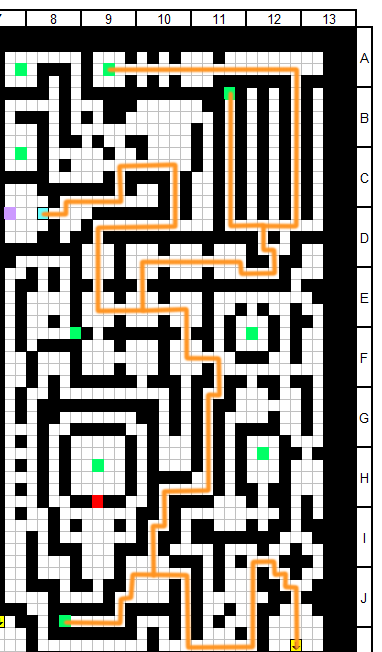
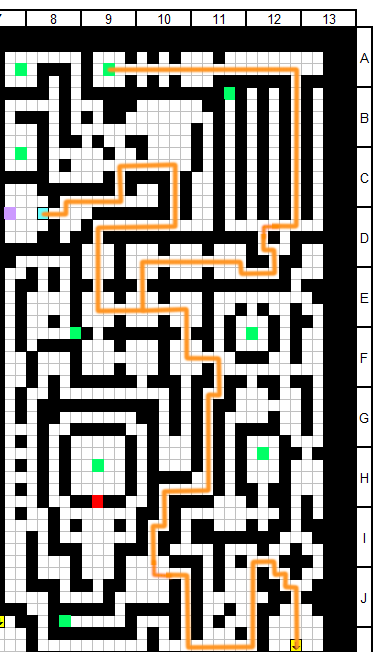
Updated 19F and 20F maps, removed a few extra chests

Changed region(s): [[0.5759, 0.1227, 0.7199, 0.3681], [0.1728, 0.8589, 0.4607, 0.9816]]

diff --git a/item/chests.md b/item/chests.md
@@ -513,15 +513,15 @@ Any treasure located in floor A that can only be obtained after reaching floor B
 | War Mask of the Butcher | X |
 | Youkai Medal Shattering Axe | X |
 | Floor Total | 6 |
-| Combined Total | 178 |
+| Combined Total | 158 |
 
 #### <a id="floor-20"></a>Floor 20
 
 | Contents | AnM | AnM+ |
 | :---: | :---: | :---: |
 | Megasphere<br>Grand Master Breaker Title<br>Tome of Insight - AFF x2<br>Tome of Insight - RES x2 | O |
-| 6000 Money | O |
-| 6500 Money | O |
+| 6000 Money | X |
+| 6500 Money | X |
 | Cinderforge Sword | X |
 | Energy Gem | X |
 | Experimental MIRV | X |
@@ -540,8 +540,8 @@ Any treasure located in floor A that can only be obtained after reaching floor B
 | Treasure Chest Key | X |
 | Wash Basin Set | X |
 | Wisdom Gem | X |
-| Floor Total | 5 |
-| Combined Total | 182 |
+| Floor Total | 3 |
+| Combined Total | 161 |
 
 ## <a id="neglected-list"></a>Neglected Treasures List
 
